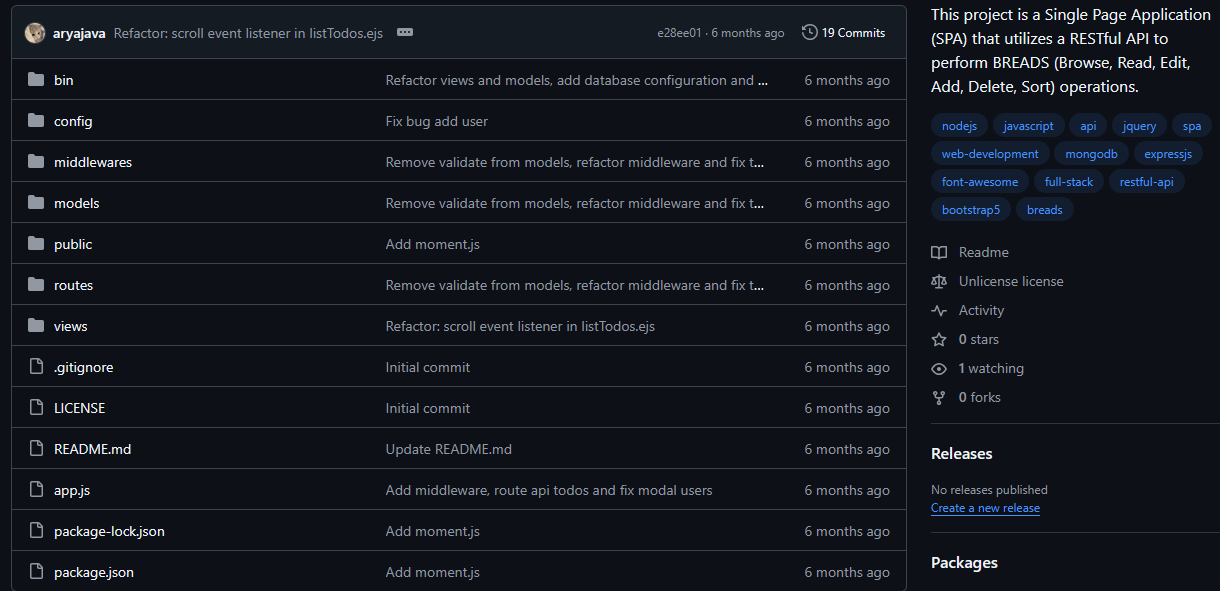
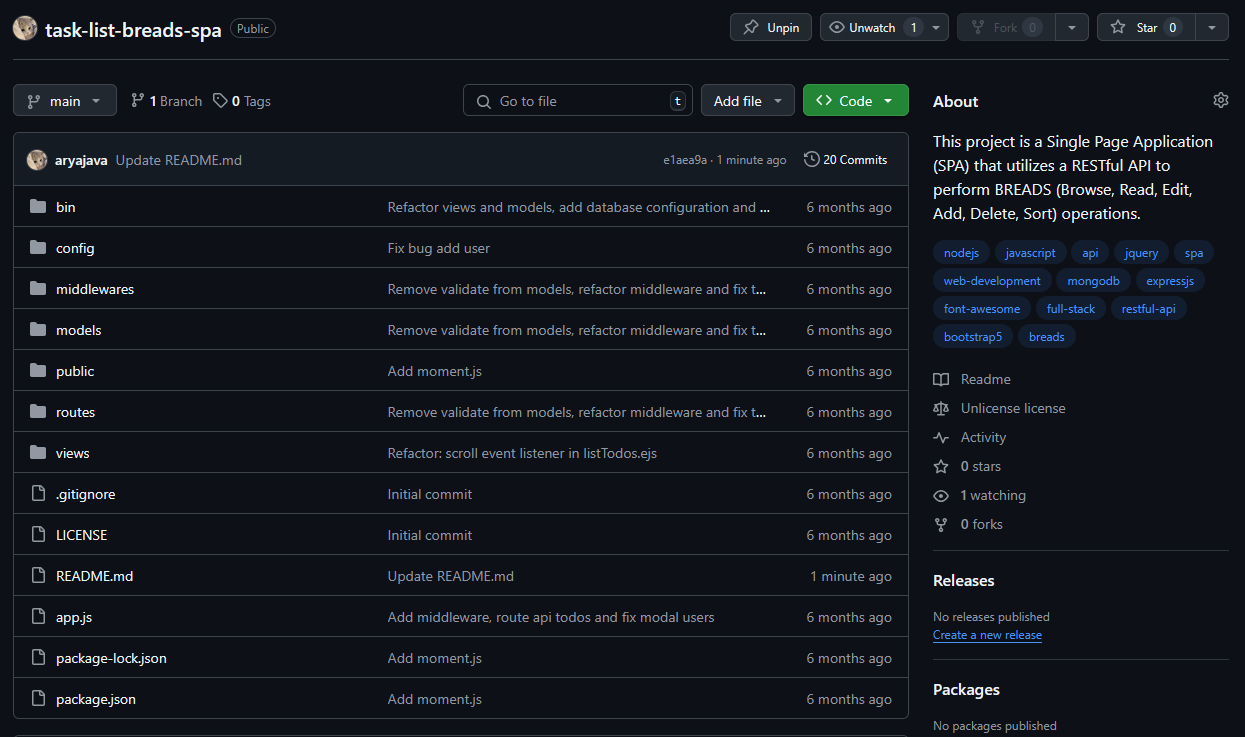
fix(portfolio): update GitHub links for project to reflect new repository

Changed region(s): [[0.0, 0.0, 0.9967, 1.0], [0.3115, 0.5482, 0.623, 0.5787]]

diff --git a/index.html b/index.html
@@ -205,7 +205,7 @@
                                     <a href="#" class="project-link" data-bs-toggle="modal" data-bs-target="#project2Modal">
                                         <i class="fas fa-play"></i> <span data-i18n="projects.demo">Demo</span>
                                     </a>
-                                    <a href="https://github.com/aryajava/todo-list" target="_blank" class="project-link">
+                                    <a href="https://github.com/aryajava/task-list-breads-spa" target="_blank" class="project-link">
                                         <i class="fab fa-github"></i> <span data-i18n="projects.code">Kode</span>
                                     </a>
                                 </div>
@@ -504,7 +504,7 @@
                     </div>
                 </div>
                 <div class="modal-footer">
-                    <a href="https://github.com/aryajava/todo-list" target="_blank" class="btn btn-outline-dark">
+                    <a href="https://github.com/aryajava/task-list-breads-spa" target="_blank" class="btn btn-outline-dark">
                         <i class="fab fa-github"></i> View Code
                     </a>
                     <button type="button" class="btn btn-primary" data-bs-dismiss="modal">Close</button>
